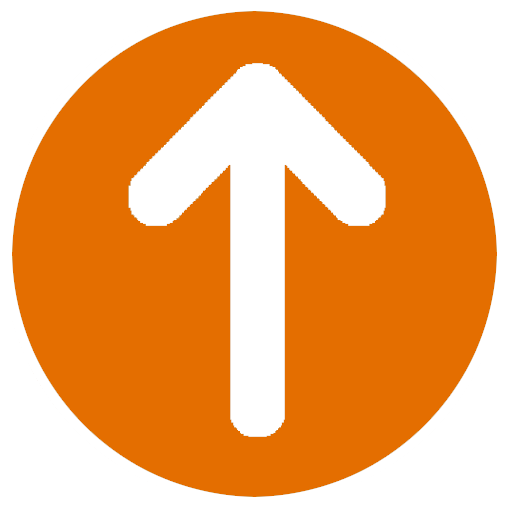
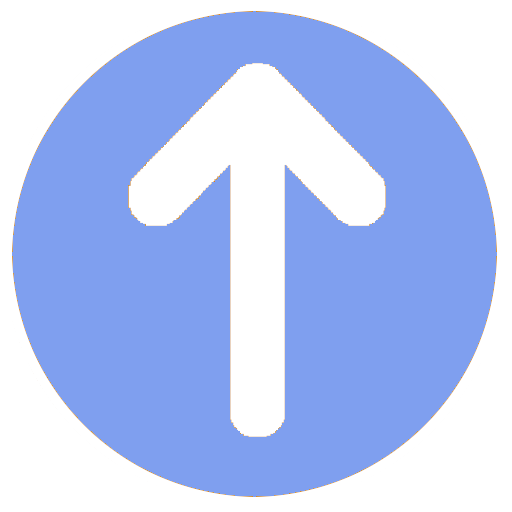
dw

diff --git a/orcamento.html b/orcamento.html
@@ -42,8 +42,8 @@
                 <h1>Orçamento</h1>
                 <p>
                     Você pode montar seu orçamento usando o nosso formulário abaixo ou enviar um orçamento para
-                        <a href="mailto:marildablueberry@uol.com.br" title="email" role="link" tabindex="0" target="blank"
-                    style="color: #4b217a; text-decoration: none;"> 📧
+                    <a href="mailto:marildablueberry@uol.com.br" title="email" role="link" tabindex="0" target="blank"
+                        style="color: #4b217a; text-decoration: none;"> 📧
                         marildablueberry@uol.com.br</a>
                 </p>
             </div>
@@ -661,7 +661,7 @@
                                     </div>
                                 </div>
                             </li>
-                        </ul>                        
+                        </ul>
                     </div>
                     <div class="formularioHolder">
                         <div class="comentarioHolder">
@@ -669,7 +669,8 @@
                             <textarea name="Comentario" cols="50" rows="5" class="inputDetalhes" id="Comentario"
                                 style="resize: vertical;"></textarea>
                             <label class="#">
-                                <input name="tituloMensagem" id="tituloMensagem" value="Formulário de Orçamento" type="hidden" />
+                                <input name="tituloMensagem" id="tituloMensagem" value="Formulário de Orçamento"
+                                    type="hidden" />
                                 &nbsp;
                             </label>
                         </div>
@@ -743,8 +744,8 @@
                         <h3>Atendimento 09:00 - 17:00</h3>
                         <h3>(19) 3231-2968</h3>
                         <h3>Facebook:
-                            <a class="blue" href="https://www.facebook.com/Blueberry-Camisetas-309011612639981/" target="_blank"
-                                title="facebook" style="color: #4b217a"> BlueBerryCamisetas</a>
+                            <a class="blue" href="https://www.facebook.com/Blueberry-Camisetas-309011612639981/"
+                                target="_blank" title="facebook" style="color: #4b217a"> BlueBerryCamisetas</a>
                         </h3>
                         <h3>Email:
                             <a class="blue" href="mailto:marildablueberry@uol.com.br" target="_blank"

diff --git a/css/orcamento.css b/css/orcamento.css
@@ -35,7 +35,7 @@
     font-size: 1em;
     font-weight: 300;
 }
-.ulProducts li{
+.ulProducts li {
     margin-bottom: 1rem;
 }
 .sectionDados {
@@ -58,6 +58,7 @@
     margin: 5%;
 }
 .sectionDetalhes {
+    color: #000000;
     align-items: center;
     display: none;
     font-size: 1em;
@@ -71,7 +72,7 @@
 .personalizarion {
     margin-top: 0;
 }
-.box  h2{
+.box h2 {
     text-align: center;
 }
 .comentarioHolder {
@@ -170,6 +171,7 @@ input:checked + .slider:before {
 }
 .input {
     background-color: #02186f70;
+    color: white;
     border: 2px solid transparent;
     border-radius: 4px;
     box-shadow: 0 1px 6px rgba(80, 80, 80, 0.64);
@@ -291,10 +293,10 @@ input:checked + .slider:before {
     .ulProducts {
         flex-direction: row;
         flex-wrap: wrap;
-        justify-content: space-between; 
-        width: 100%;       
+        justify-content: space-between;
+        width: 100%;
     }
-    .ulProducts li{
+    .ulProducts li {
         flex: 26%;
         max-width: 26%;
     }
@@ -302,7 +304,7 @@ input:checked + .slider:before {
         flex-wrap: wrap;
     }
     .dadosBasis {
-        flex-basis: 49%;  
-        text-align: center;      
+        flex-basis: 49%;
+        text-align: center;
     }
 }

diff --git a/index.html b/index.html
@@ -193,11 +193,12 @@
                                 target="_blank" title="facebook" style="color: #4b217a"> BlueBerryCamisetas</a>
                         </h3>
                         <h3>Email:
-                            <a class="blue" href="mailto:marildablueberry@uol.com.br"
-                                target="_blank" style="color: #4b217a">marildablueberry@uol.com.br</a>
+                            <a class="blue" href="mailto:marildablueberry@uol.com.br" target="_blank"
+                                style="color: #4b217a">marildablueberry@uol.com.br</a>
                         </h3>
                         <h3>Designed By:
-                            <a class="blue" href="https://www.facebook.com/victoryagoc" target="_blank" style="color: #4b217a">Victor Yago
+                            <a class="blue" href="https://www.facebook.com/victoryagoc" target="_blank"
+                                style="color: #4b217a">Victor Yago
                                 Cury</a>
                         </h3>
                         <h3>Copyright © 2023</h3>

diff --git a/css/produtos.css b/css/produtos.css
@@ -7,7 +7,7 @@
     justify-content: space-around;
     padding: 0;
     margin: 0;
-    list-style: none;    
+    list-style: none;
 }
 
 .flex-item {
@@ -15,7 +15,7 @@
     width: 100%;
     margin-top: 10px;
     line-height: 150px;
-    color: #08196C;
+    color: #08196c;
     font-weight: bold;
     font-size: 3em;
     text-align: center;
@@ -28,9 +28,9 @@
 }
 
 .flexbox-container {
-	display: -ms-flex;
-	display: -webkit-flex;
-	display: flex;
+    display: -ms-flex;
+    display: -webkit-flex;
+    display: flex;
     font-size: 0.3em;
     line-height: 1.5em;
     border-radius: 5px;
@@ -43,19 +43,19 @@
 }
 
 .flexbox-column {
-  display: flex;
-	width: 100%;
+    display: flex;
+    width: 100%;
 }
 
 @media (min-width: 768px) {
-  .flexbox-column {
-    width: 50%;
-  }
+    .flexbox-column {
+        width: 50%;
+    }
 }
 
 .flexbox-content {
-  display: flex;
-  align-self: center;
+    display: flex;
+    align-self: center;
 }
 
 .flexbox-container > div:first-child {

diff --git a/sobrenos.html b/sobrenos.html
@@ -135,8 +135,8 @@
                         <h3>Atendimento 09:00 - 17:00</h3>
                         <h3>(19) 3231-2968</h3>
                         <h3>Facebook:
-                            <a class="blue" href="https://www.facebook.com/Blueberry-Camisetas-309011612639981/" target="_blank"
-                                title="facebook" style="color: #4b217a"> BlueBerryCamisetas</a>
+                            <a class="blue" href="https://www.facebook.com/Blueberry-Camisetas-309011612639981/"
+                                target="_blank" title="facebook" style="color: #4b217a"> BlueBerryCamisetas</a>
                         </h3>
                         <h3>Email:
                             <a class="blue" href="mailto:marildablueberry@uol.com.br" target="_blank"

diff --git a/css/style.css b/css/style.css
@@ -188,8 +188,8 @@ p {
 
 .box {
     flex: 1;
-    background: #e46e00;
-    color: rgb(255, 255, 255);
+    background: #7f9fef81;
+    color: #02176f;
     border-radius: 5px;
     margin: 20px 10px;
     border-color: #527dfc;
@@ -304,20 +304,19 @@ p {
     }
 }
 @media screen and (max-width: 847px) and (min-width: 464px) {
-    .wrap div{
+    .wrap div {
         flex-basis: 49%;
     }
-
 }
 @media screen and (max-width: 1130px) and (min-width: 426px) {
-    .wrap:nth-of-type(2) div{
-    flex-wrap: wrap;
-    flex-basis: 30%;
-}
+    .wrap:nth-of-type(2) div {
+        flex-wrap: wrap;
+        flex-basis: 30%;
+    }
 }
 
 @media (max-width: 478px) and (min-width: 330px) {
     .wrap div {
         flex-basis: 100%;
-    }    
+    }
 }

diff --git a/css/stickyButtons.css b/css/stickyButtons.css
@@ -28,5 +28,5 @@
     }
     .btn2top .sticky-btn.revealed {
         bottom: 10px;
-    }    
+    }
 }
